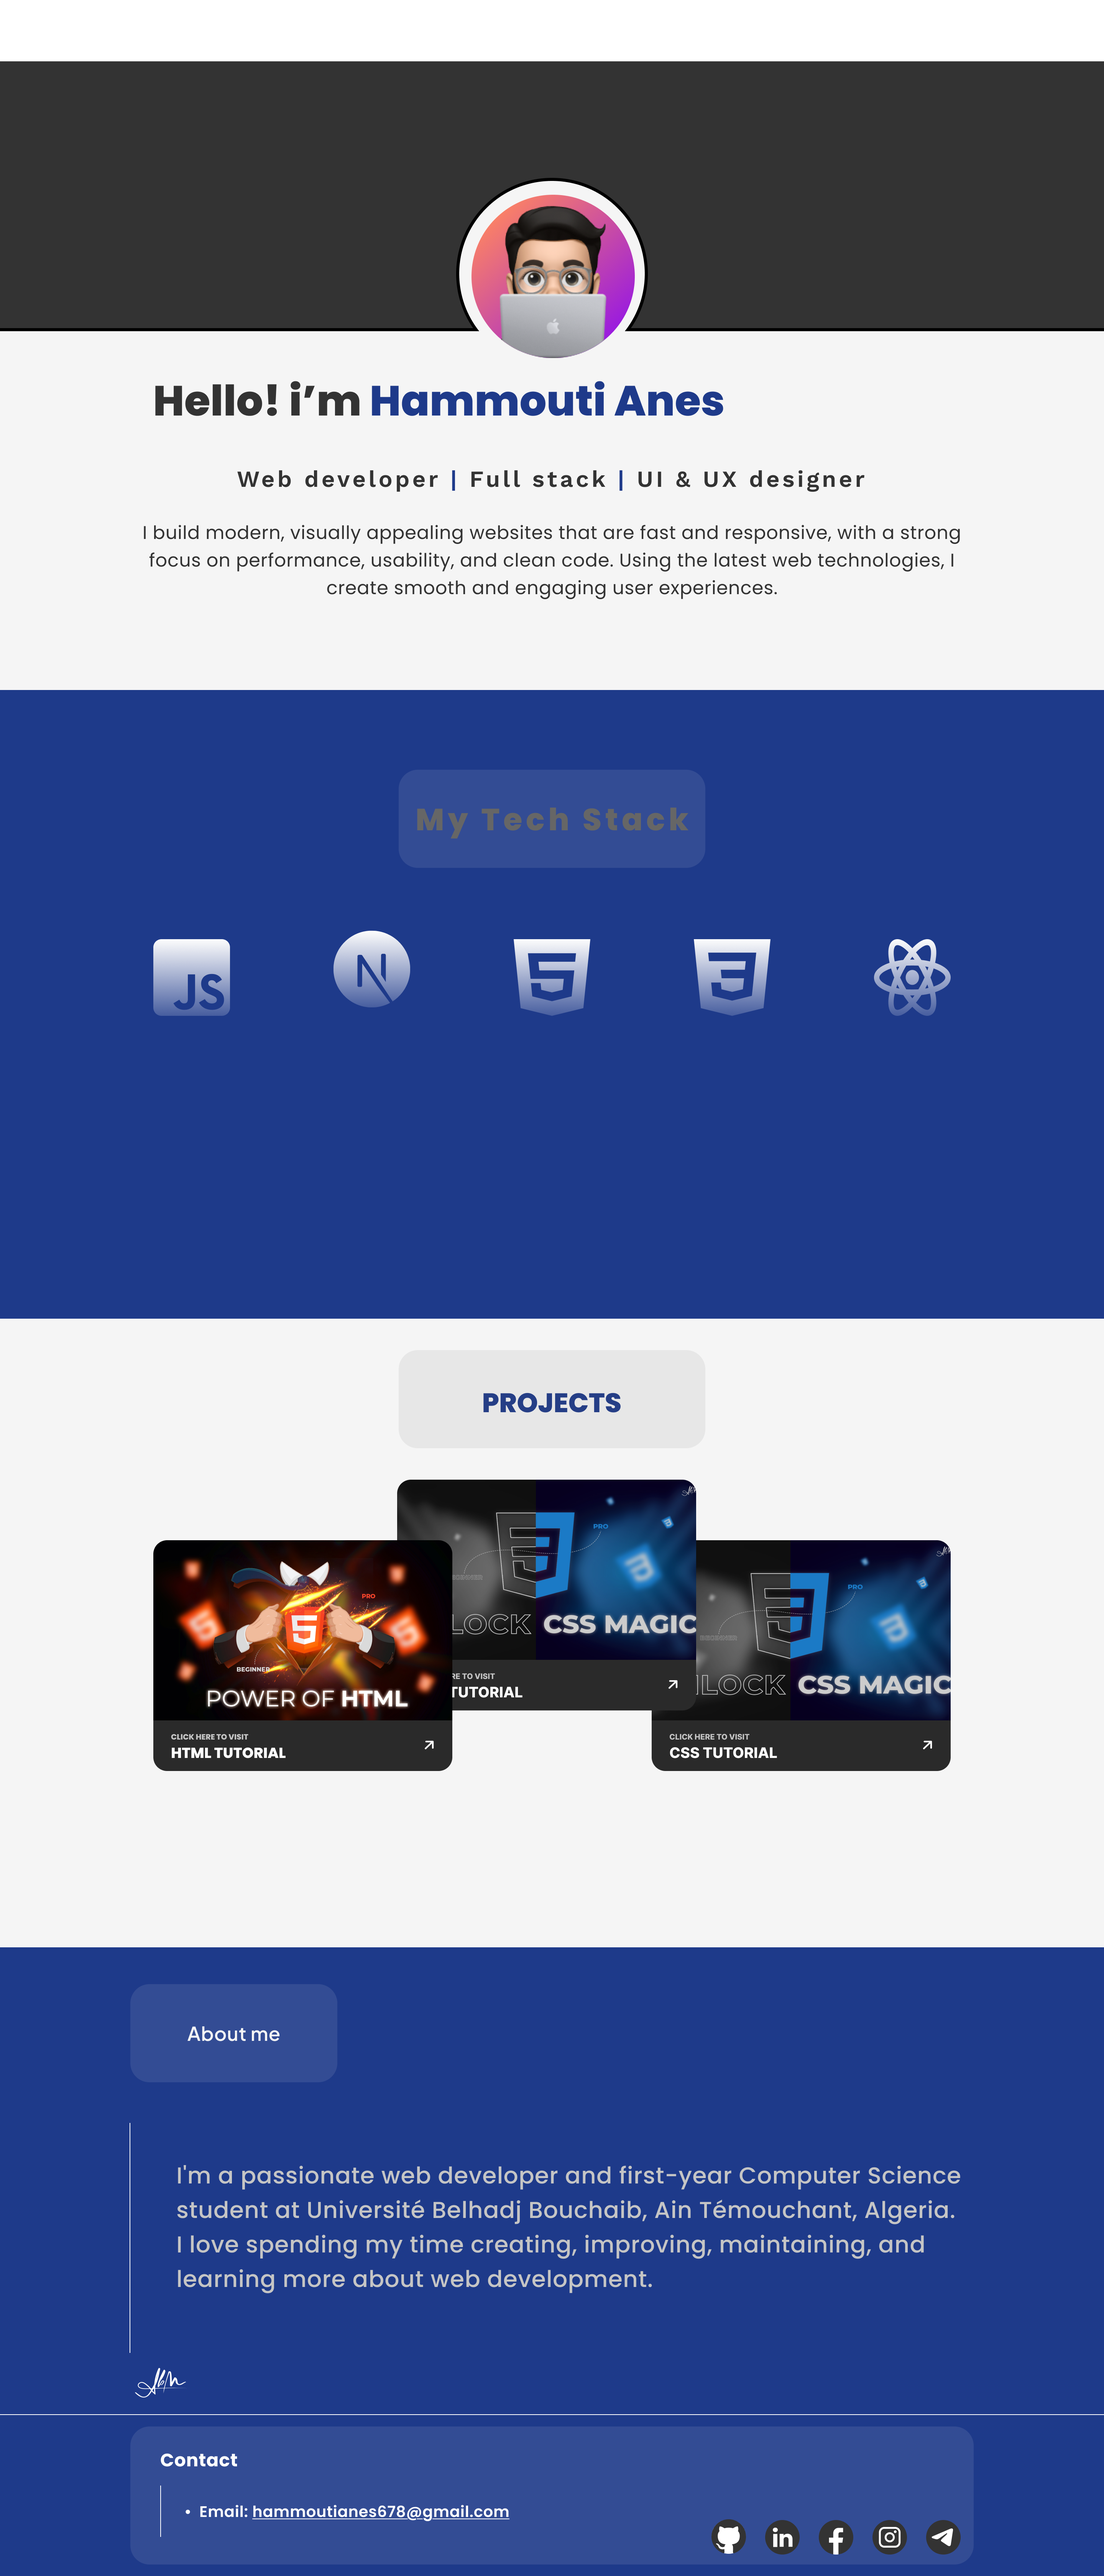
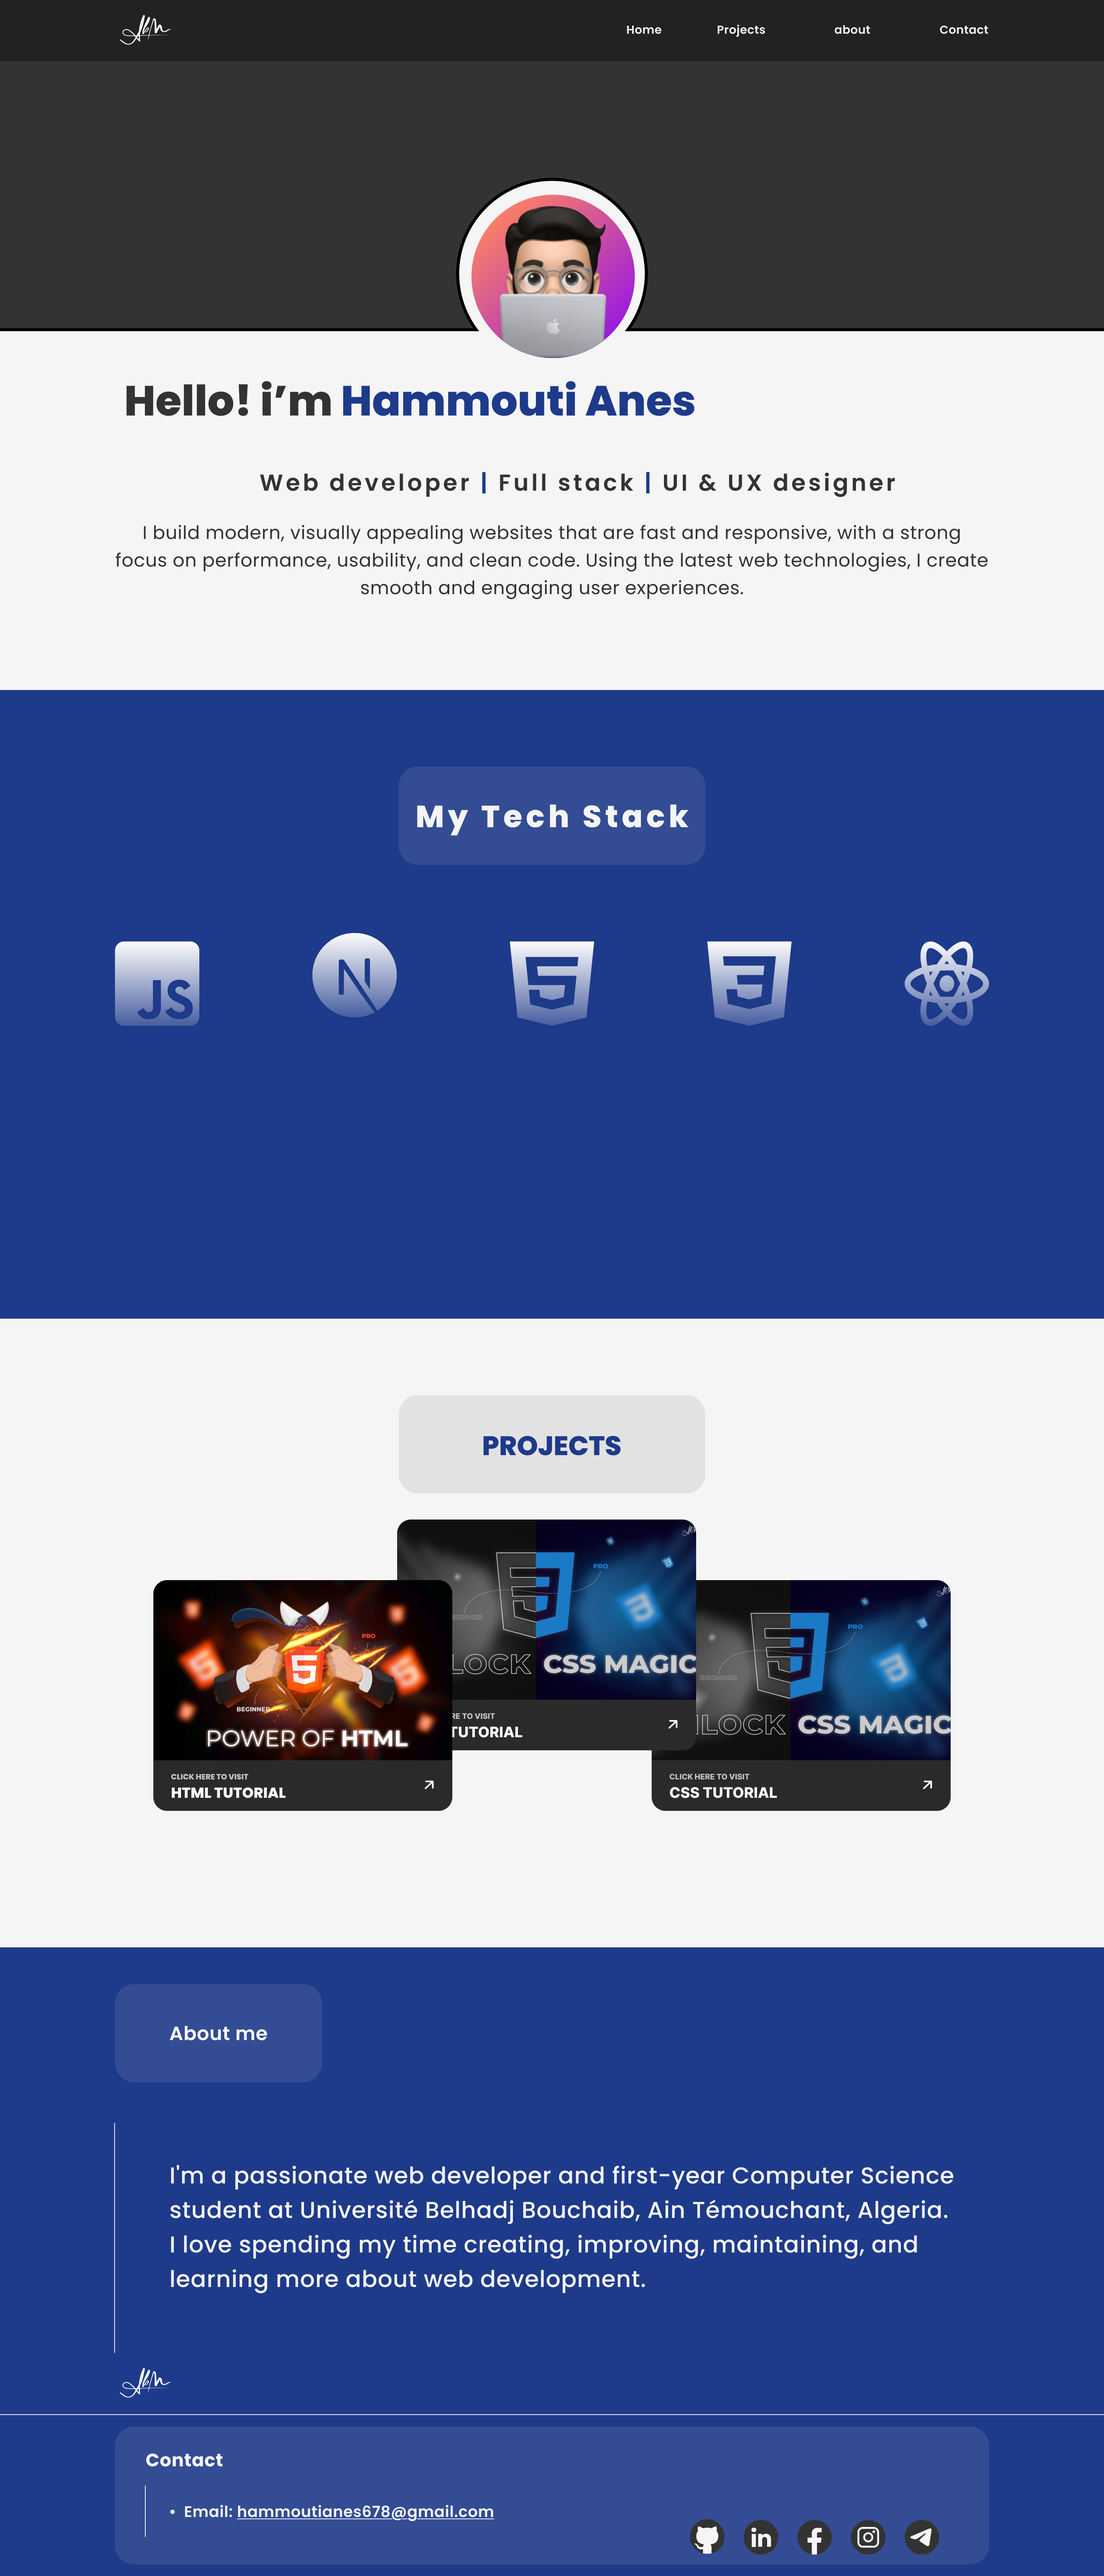
header modification

diff --git a/index.html b/index.html
@@ -28,11 +28,18 @@
             <div class="container">
                 <!-- logo part -->
                 <a href="#" class="logo">
-                    <img decoding="async" src="/images/logo.jpg" alt="logo" />
+                    <img
+                        decoding="async"
+                        src="/images/logo.jpg"
+                        alt="Anes Portfolio Logo"
+                    />
                 </a>
                 <!-- nav bar  -->
                 <nav>
-                    <i class="fas fa-bars toggle-menu"></i>
+                    <!-- Add button is better -->
+                    <button class="toggle-menu" aria-label="Toggle menu">
+                        <i class="fas fa-bars"></i>
+                    </button>
                     <ul>
                         <li><a href="#Home">Home</a></li>
                         <li><a href="#Projects">Projects</a></li>

diff --git a/CSS/main.css b/CSS/main.css
@@ -65,8 +65,6 @@ header .container {
     align-items: center;
 }
 /* logo part */
-/* header .logo {
-} */
 header .logo img {
     width: 40px;
 }
@@ -79,6 +77,7 @@ header nav {
     position: relative;
 }
 header nav .toggle-menu {
+    background-color: transparent;
     color: #fff;
     display: none;
 }
@@ -88,8 +87,6 @@ header nav ul {
     gap: 40px;
     position: relative;
 }
-/* header nav ul li {
-} */
 header nav ul li a {
     text-decoration: none;
     color: #fff;
@@ -113,7 +110,7 @@ header nav ul li a {
         color: #222;
         border: solid 14px;
         border-color: transparent transparent #222 transparent;
-        top: -28px;
+        top: -27px;
         right: 14px;
         display: none;
     }
